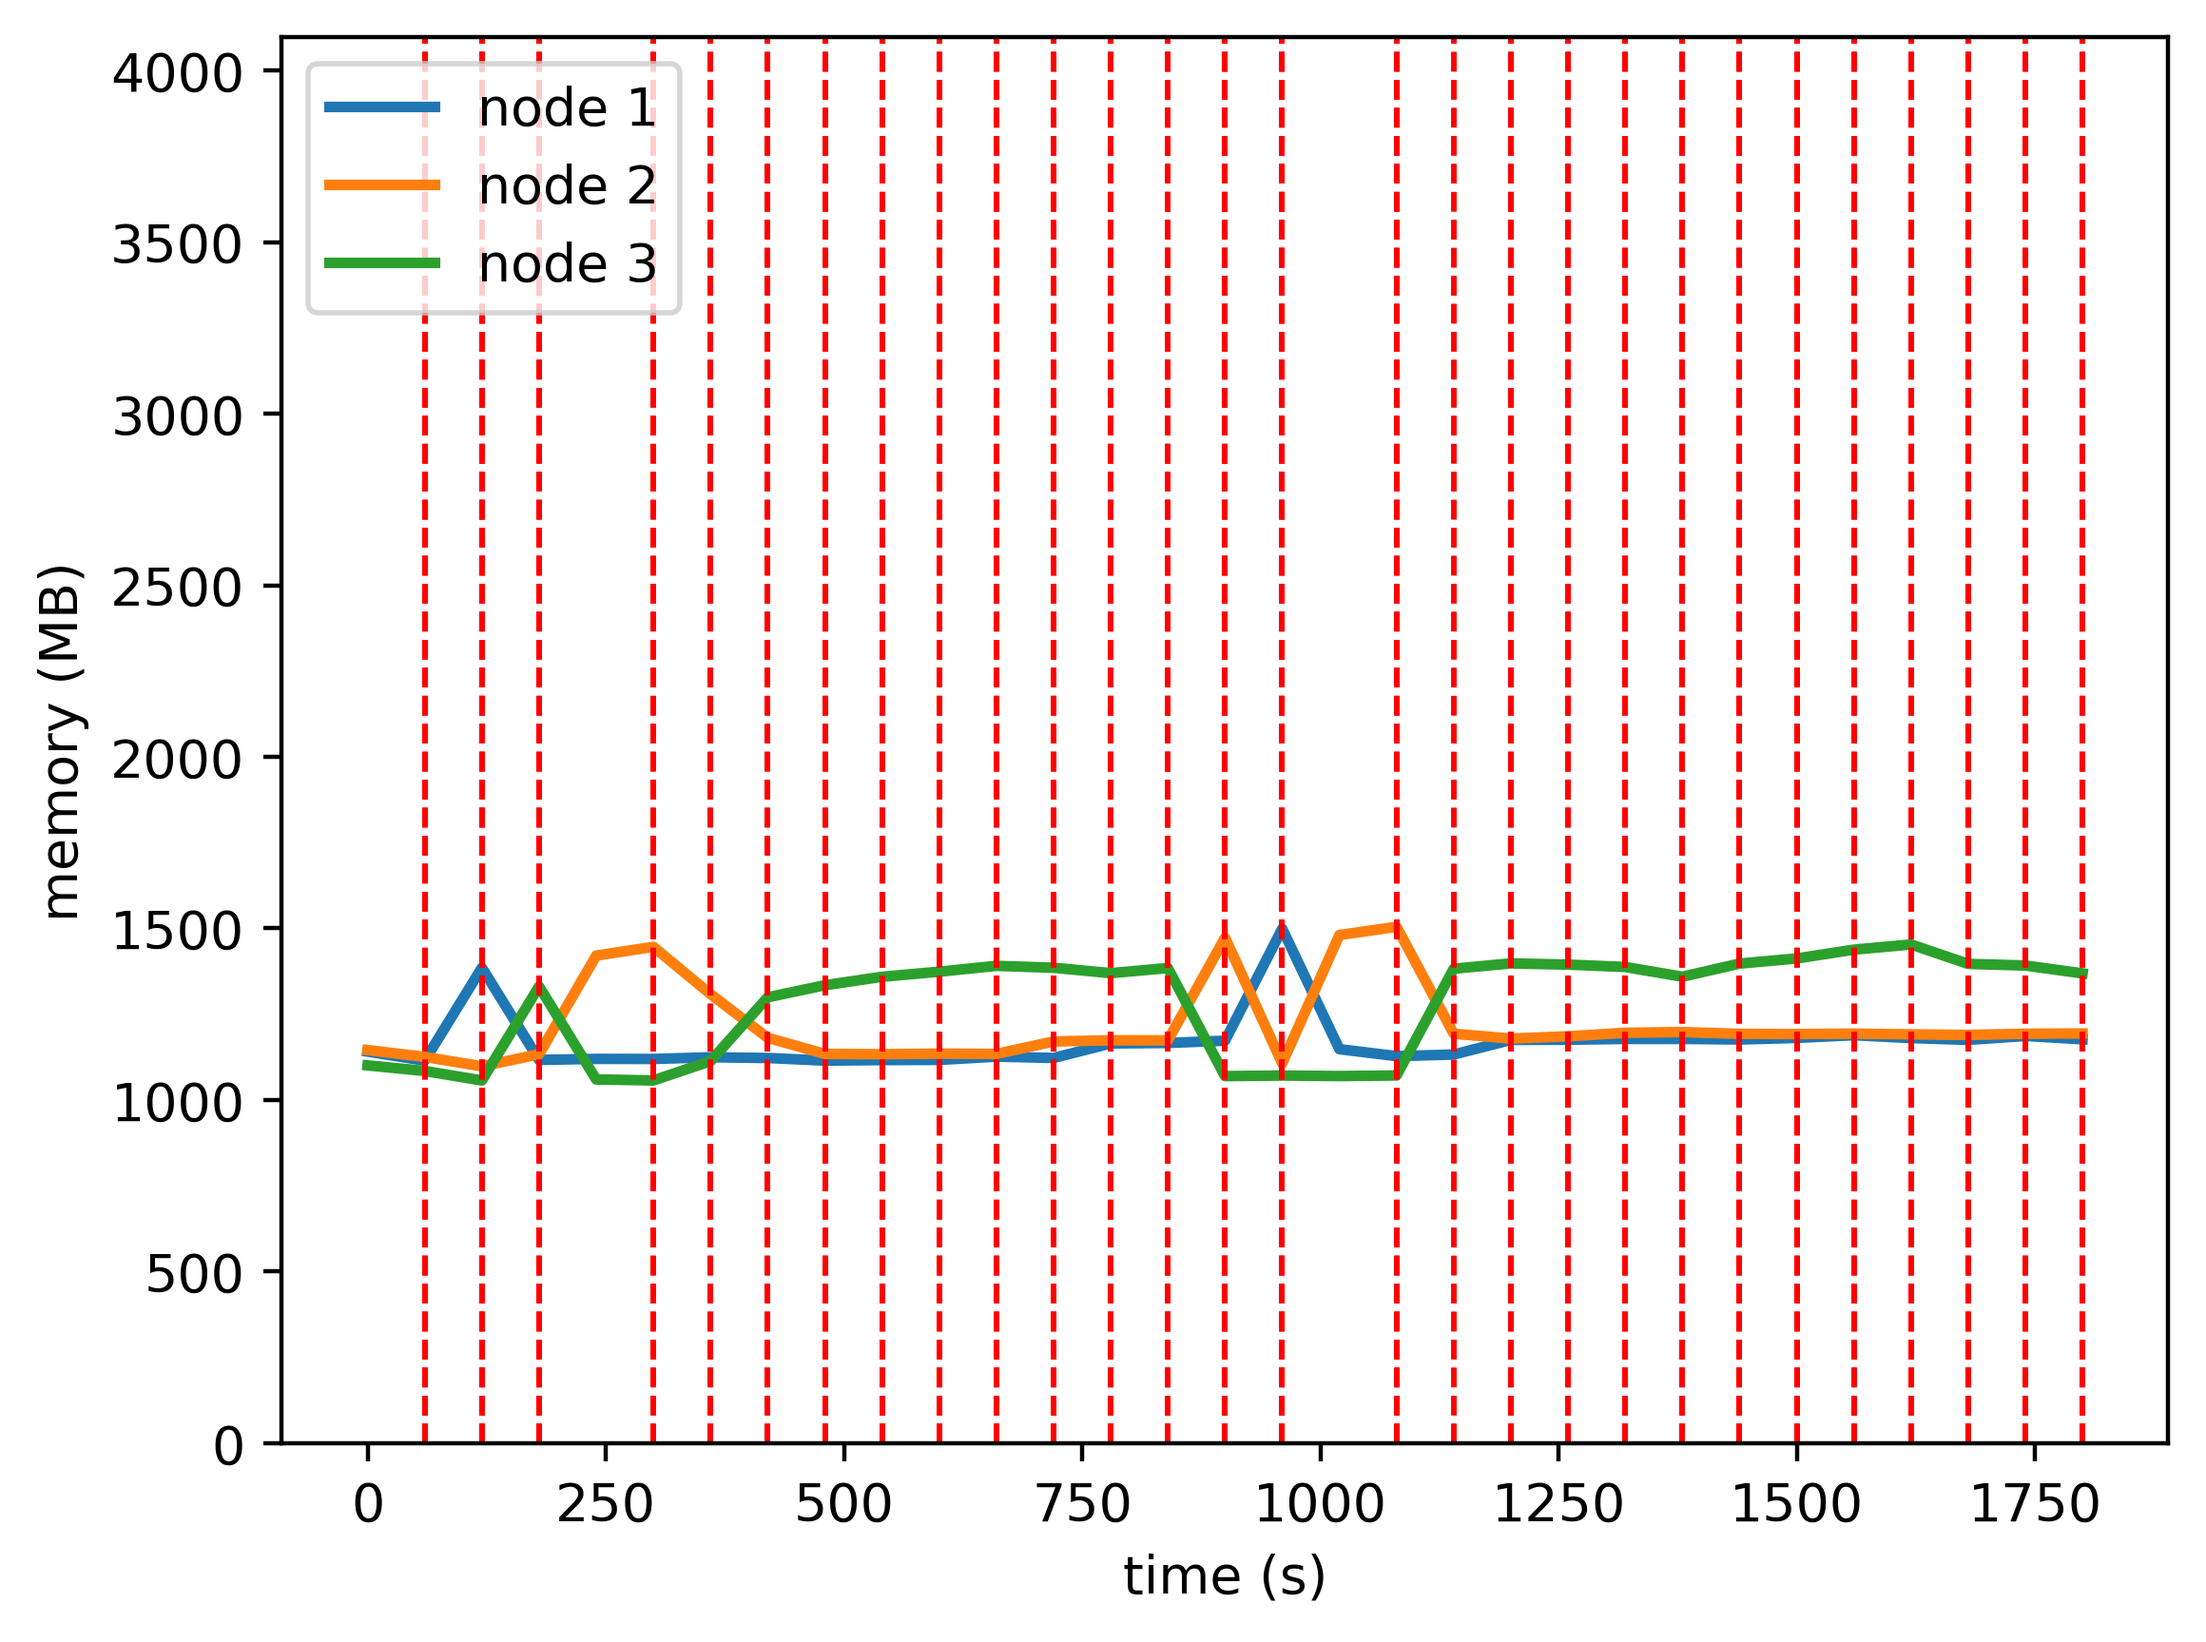
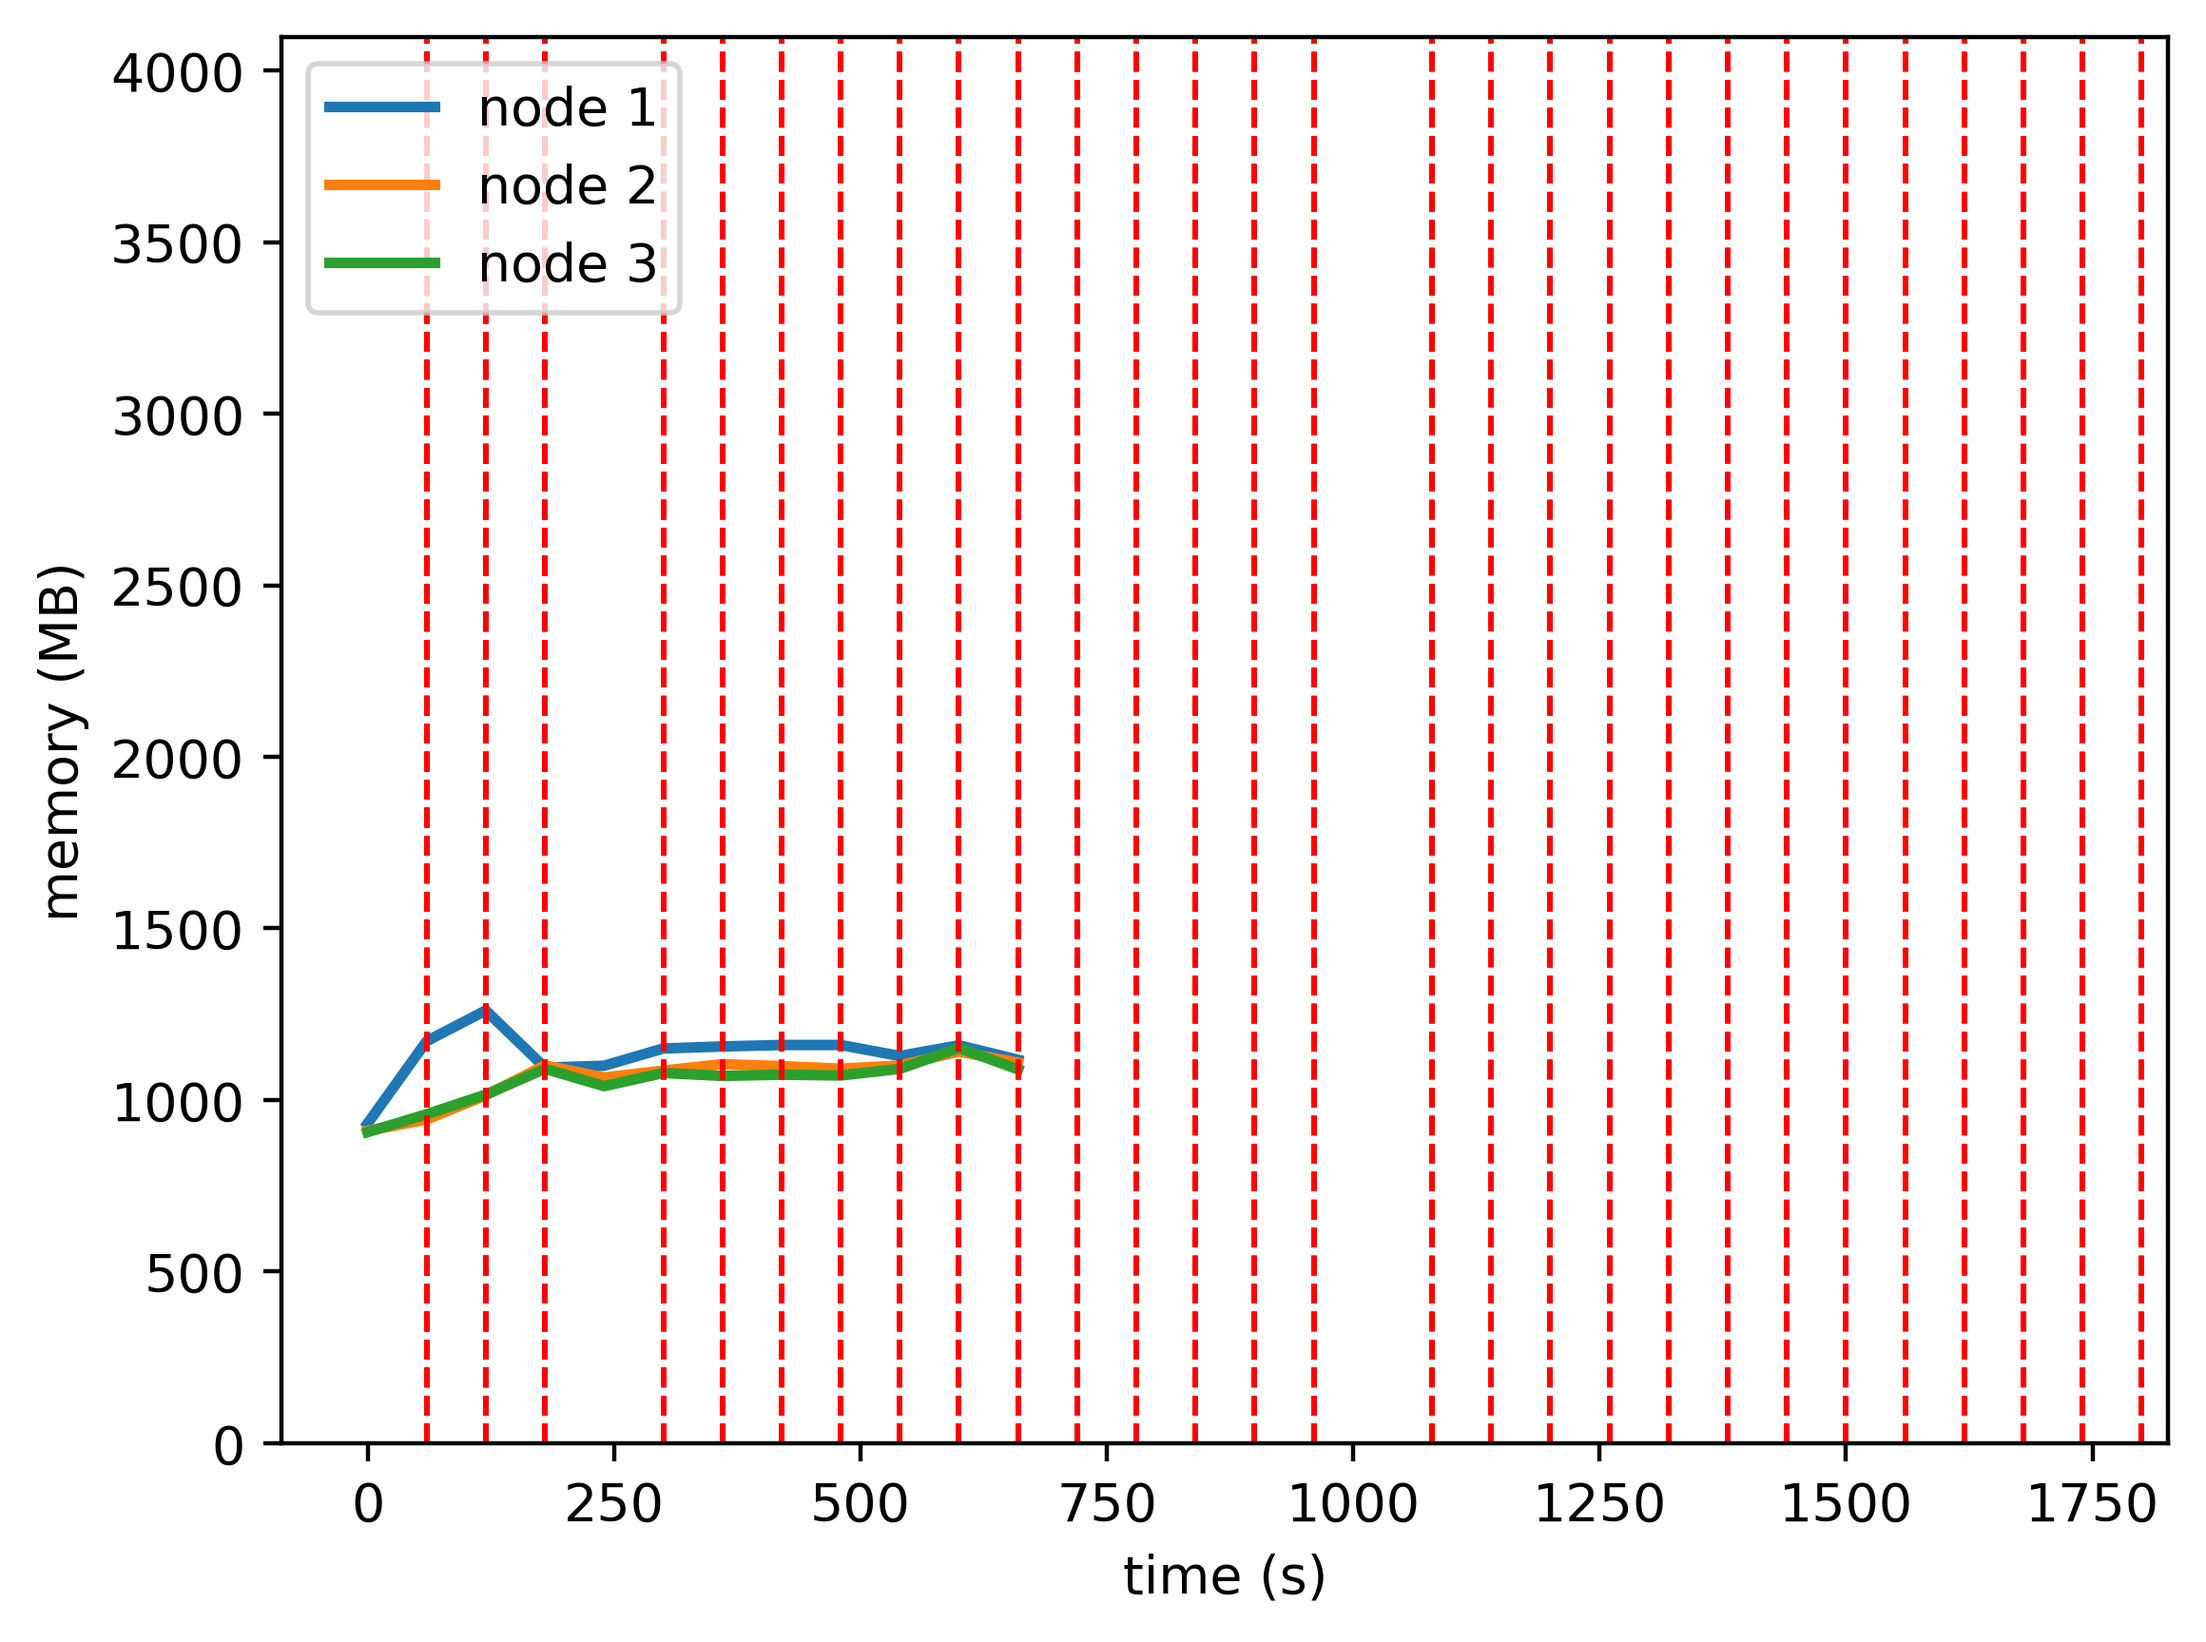
update

diff --git a/results/summary_kse-GreedyLB_6_1000.html b/results/summary_kse-GreedyLB_6_1000.html
@@ -147,19 +147,19 @@
   </head>
   <body>
     <div class="container px-4 py-5">
-      <h3 class="pb-2 border-bottom"> <svg style="vertical-align:middle" width="40" height="45" viewBox="0 0 50 45" fill="none" class="footer-module--logo--_lkxx"><path d="M31.968 34.681a2.007 2.007 0 002.011-2.003c0-1.106-.9-2.003-2.011-2.003a2.007 2.007 0 00-2.012 2.003c0 1.106.9 2.003 2.012 2.003z" fill="#7D64FF"></path><path d="M39.575 0L27.154 16.883 16.729 9.31 0 45h50L39.575 0zM23.663 37.17l-2.97-4.072v4.072h-2.751V22.038l2.75 1.989v7.66l3.659-5.014 2.086 1.51-3.071 4.21 3.486 4.776h-3.189v.001zm8.305.17c-2.586 0-4.681-2.088-4.681-4.662 0-1.025.332-1.972.896-2.743l4.695-6.435 2.086 1.51-2.239 3.07a4.667 4.667 0 013.924 4.6c0 2.572-2.095 4.66-4.681 4.66z" fill="#7D64FF"></path></svg>kse-GreedyLB - 6 pods - 10000 virtual users</h3>
+      <h3 class="pb-2 border-bottom"> <svg style="vertical-align:middle" width="40" height="45" viewBox="0 0 50 45" fill="none" class="footer-module--logo--_lkxx"><path d="M31.968 34.681a2.007 2.007 0 002.011-2.003c0-1.106-.9-2.003-2.011-2.003a2.007 2.007 0 00-2.012 2.003c0 1.106.9 2.003 2.012 2.003z" fill="#7D64FF"></path><path d="M39.575 0L27.154 16.883 16.729 9.31 0 45h50L39.575 0zM23.663 37.17l-2.97-4.072v4.072h-2.751V22.038l2.75 1.989v7.66l3.659-5.014 2.086 1.51-3.071 4.21 3.486 4.776h-3.189v.001zm8.305.17c-2.586 0-4.681-2.088-4.681-4.662 0-1.025.332-1.972.896-2.743l4.695-6.435 2.086 1.51-2.239 3.07a4.667 4.667 0 013.924 4.6c0 2.572-2.095 4.66-4.681 4.66z" fill="#7D64FF"></path></svg>kse-GreedyLB - 6 pods - 1000 virtual users</h3>
       <div class="row g-4 py-2 row-cols-1 row-cols-lg-3">
         <div class="box">
           <i class="fas fa-globe icon"></i>
           <h4>Total Requests</h4>
-          <div class="bignum">886932</div>
+          <div class="bignum">26602</div>
           
         </div>
         
           <div class="box failed">
             <i class="far fa-times-circle icon"></i>
             <h4>Failed Requests</h4>
-            <div class="bignum">30470</div>
+            <div class="bignum">26602</div>
           </div> 
              
         <div class="box good">
@@ -206,15 +206,15 @@
                     
                     
                     
-                      <td class="">4997.25 ms</td>
+                      <td class="">3.03 ms</td>
                     
     
                     
-                      <td class="">60000.54 ms</td>
+                      <td class="">38.18 ms</td>
                       
     
                     
-                      <td class="">5334.19 ms</td>
+                      <td class="">2.79 ms</td>
                       
                     
                     
@@ -222,11 +222,11 @@
                        
                                   
                     
-                      <td class="">8058.54 ms</td>
+                      <td class="">3.91 ms</td>
                     
     
                     
-                      <td class="">9924.50 ms</td>
+                      <td class="">4.94 ms</td>
                     
                   </tr>
                 
@@ -242,15 +242,15 @@
                     
                     
                     
-                      <td class="">4888.06 ms</td>
+                      <td class="">2.91 ms</td>
                     
     
                     
-                      <td class="">59998.45 ms</td>
+                      <td class="">37.90 ms</td>
                       
     
                     
-                      <td class="">5283.10 ms</td>
+                      <td class="">2.67 ms</td>
                       
                     
                     
@@ -258,11 +258,11 @@
                        
                                   
                     
-                      <td class="">7826.03 ms</td>
+                      <td class="">3.77 ms</td>
                     
     
                     
-                      <td class="">9328.03 ms</td>
+                      <td class="">4.78 ms</td>
                     
                   </tr>
                 
@@ -278,15 +278,15 @@
                     
                     
                     
-                      <td class="">840.89 ms</td>
+                      <td class="">22.33 ms</td>
                     
     
                     
-                      <td class="">15132.42 ms</td>
+                      <td class="">7016.51 ms</td>
                       
     
                     
-                      <td class="">1.63 ms</td>
+                      <td>-</td>
                       
                     
                     
@@ -294,11 +294,11 @@
                        
                                   
                     
-                      <td class="">3002.22 ms</td>
+                      <td class="">1.86 ms</td>
                     
     
                     
-                      <td class="">7010.76 ms</td>
+                      <td class="">2.21 ms</td>
                     
                   </tr>
                 
@@ -350,15 +350,15 @@
                     
                     
                     
-                      <td class="">109.13 ms</td>
+                      <td class="">0.05 ms</td>
                     
     
                     
-                      <td class="">22467.28 ms</td>
+                      <td class="">3.40 ms</td>
                       
     
                     
-                      <td class="">0.04 ms</td>
+                      <td class="">0.03 ms</td>
                       
                     
                     
@@ -366,11 +366,11 @@
                        
                                   
                     
-                      <td class="">0.07 ms</td>
+                      <td class="">0.10 ms</td>
                     
     
                     
-                      <td class="">12.16 ms</td>
+                      <td class="">0.11 ms</td>
                     
                   </tr>
                 
@@ -386,15 +386,15 @@
                     
                     
                     
-                      <td class="">0.06 ms</td>
+                      <td class="">0.08 ms</td>
                     
     
                     
-                      <td class="">30.69 ms</td>
+                      <td class="">3.88 ms</td>
                       
     
                     
-                      <td class="">0.05 ms</td>
+                      <td class="">0.08 ms</td>
                       
                     
                     
@@ -402,11 +402,11 @@
                        
                                   
                     
-                      <td class="">0.08 ms</td>
+                      <td class="">0.10 ms</td>
                     
     
                     
-                      <td class="">0.10 ms</td>
+                      <td class="">0.12 ms</td>
                     
                   </tr>
                 
@@ -422,15 +422,15 @@
                     
                     
                     
-                      <td class="">879.85 ms</td>
+                      <td class="">22.37 ms</td>
                     
     
                     
-                      <td class="">15132.52 ms</td>
+                      <td class="">7016.65 ms</td>
                       
     
                     
-                      <td class="">1.86 ms</td>
+                      <td class="">0.01 ms</td>
                       
                     
                     
@@ -438,11 +438,11 @@
                        
                                   
                     
-                      <td class="">3002.90 ms</td>
+                      <td class="">1.98 ms</td>
                     
     
                     
-                      <td class="">7010.96 ms</td>
+                      <td class="">2.34 ms</td>
                     
                   </tr>
                 
@@ -458,27 +458,27 @@
                     
                     
                     
-                      <td class="">6806.48 ms</td>
+                      <td class="">533.52 ms</td>
                     
     
                     
-                      <td class="">60004.02 ms</td>
+                      <td class="">30502.47 ms</td>
                       
     
                     
-                      <td class="">5644.63 ms</td>
+                      <td class="">503.71 ms</td>
                       
                     
                     
-                      <td class="">0.39 ms</td>
+                      <td class="">501.44 ms</td>
                        
                                   
                     
-                      <td class="">13192.59 ms</td>
+                      <td class="">506.23 ms</td>
                     
     
                     
-                      <td class="">23371.26 ms</td>
+                      <td class="">507.07 ms</td>
                     
                   </tr>
                 
@@ -497,35 +497,35 @@
               <div class="box info">
                 <h4>Iterations</h4>
                 <i class="fas fa-redo icon"></i>
-                <div class="row"><div>Total</div><div>886932</div></div>
-                <div class="row"><div>Rate</div><div>1407.81/s</div></div>
+                <div class="row"><div>Total</div><div>26482</div></div>
+                <div class="row"><div>Rate</div><div>117.70/s</div></div>
               </div>
             
             <div class="box info">
               <h4>Virtual Users</h4>
               <i class="fas fa-user icon"></i>
-              <div class="row"><div>Min</div><div>0</div></div>
-              <div class="row"><div>Max</div><div>10000</div></div>
+              <div class="row"><div>Min</div><div>1</div></div>
+              <div class="row"><div>Max</div><div>125</div></div>
             </div>
           </div>
           <div class="row">
             <div class="box info">
               <h4>Requests</h4>
               <i class="fas fa-globe icon"></i>
-              <div class="row"><div>Total</div><div>886932</div></div>
-              <div class="row"><div>Rate</div><div>1407.81/s</div></div>
+              <div class="row"><div>Total</div><div>26602</div></div>
+              <div class="row"><div>Rate</div><div>118.23/s</div></div>
             </div>
             <div class="box info">
               <h4>Data Received</h4>
               <i class="fas fa-cloud-download-alt icon"></i>
-              <div class="row"><div>Total</div><div>224.39 MB</div></div>
-              <div class="row"><div>Rate</div><div>0.36 mB/s</div></div>
+              <div class="row"><div>Total</div><div>10.88 MB</div></div>
+              <div class="row"><div>Rate</div><div>0.05 mB/s</div></div>
             </div>
             <div class="box info">
               <h4>Data Sent</h4>
               <i class="fas fa-cloud-upload-alt icon"></i>
-              <div class="row"><div>Total</div><div>77.55 MB</div></div>
-              <div class="row"><div>Rate</div><div>0.12 mB/s</div></div>
+              <div class="row"><div>Total</div><div>2.28 MB</div></div>
+              <div class="row"><div>Rate</div><div>0.01 mB/s</div></div>
             </div>   
           </div>
         </div>  
